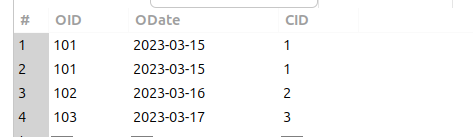
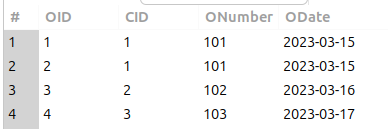
add sql

diff --git a/README.md b/README.md
@@ -65,3 +65,15 @@
 ![nf 32 data](./img/nf-34-data.png)
 
 #### 4. Розробіть ER-діаграму отриманих таблиць.
+
+![nf all](./img/nf-all.png)
+
+[Посилання на діаграму (goit-rdb-hw-02.mwb)](./goit-rdb-hw-02.mwb)
+
+#### 5. Використовуючи `ER-діаграму`, створіть таблиці в базі даних. Оформіть ці таблиці без конкретних значень, тільки з урахуванням колонок та їхніх зв'язків, вручну або автоматично.
+
+![structura_1](./img/structura-1.png)
+
+![structura_2](./img/structura-2.png)
+
+[Посилання на SQL файл для 3-ї форми (structure_and_data.sql)](./structure_and_data.sql)
